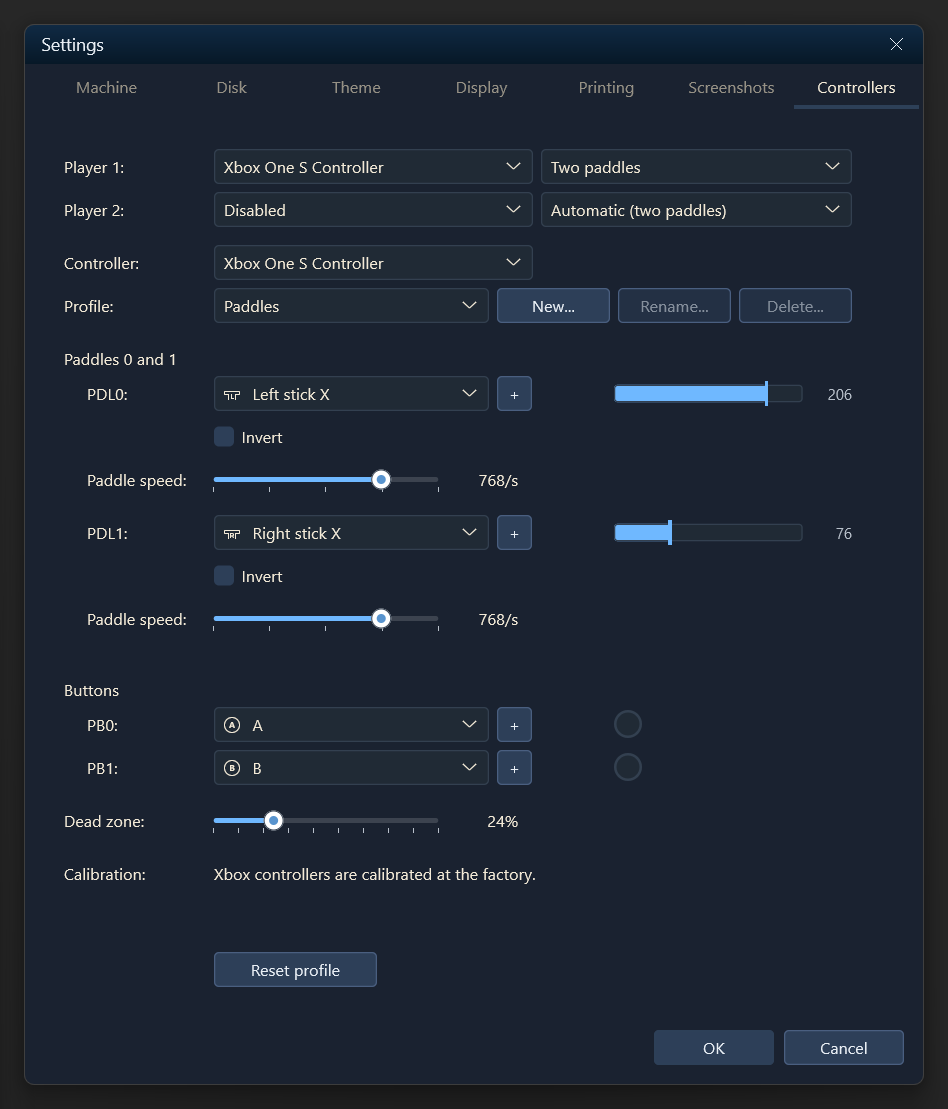
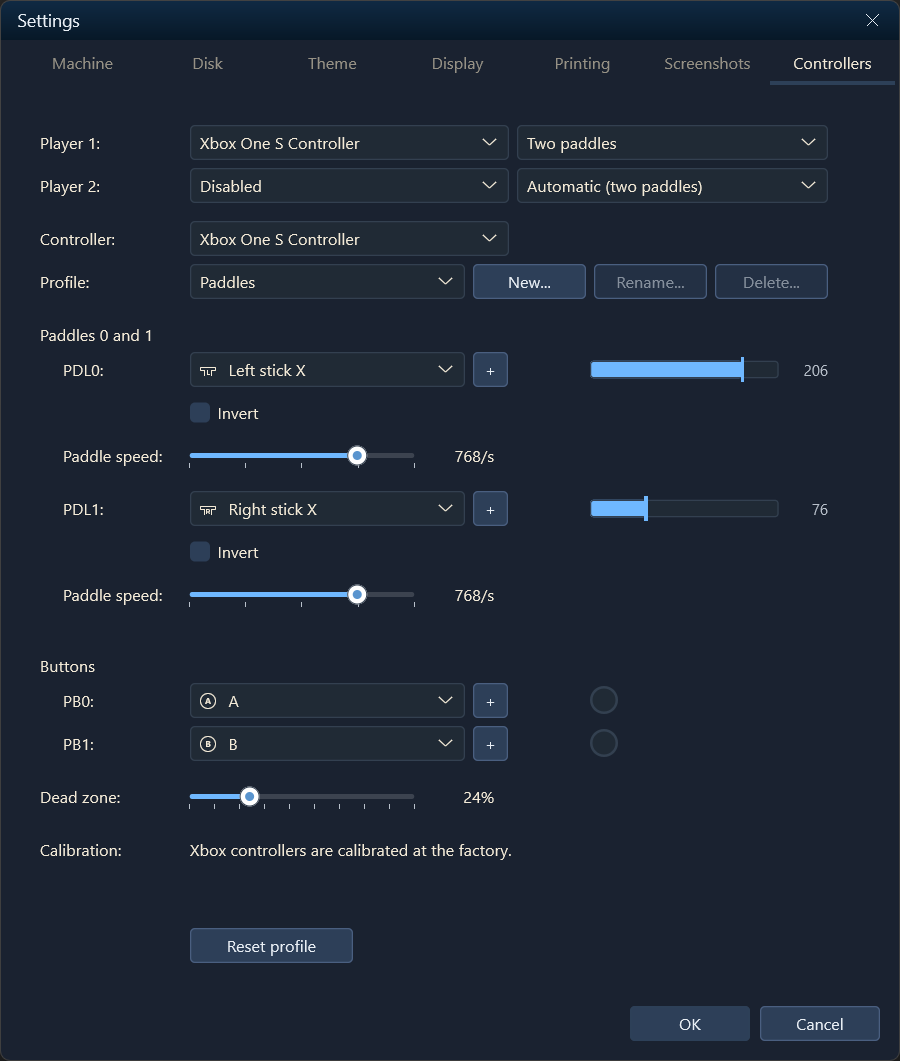
docs(readme): Crop the 1.29 screenshots and lay them out in two rows
The captures had a gray margin around each window, now cropped off. The
Joyport and toolbar shots sit side by side in a second row, with widths
in proportion to their shapes so the two come out the same height.

Refs #156

diff --git a/README.md b/README.md
@@ -104,9 +104,12 @@ surprise or two there too.
 </tr>
 </table>
 
-<p align="center"><img src="Assets/controllers-1-29-joyport.png" alt="The Controllers page in Settings with the Sirius Joyport: Player 1 on Automatic with the Xbox Series X|S controller on the left jack, and Player 2 on Automatic with the Xbox One S controller, which resolves to the right jack. The left stick, right stick and D-pad all drive left/right and up/down, a scrolling list of buttons and triggers fires, and a top-down drawing of an Atari joystick lights its right marker" width="540" /></p>
-
-<p align="center"><img src="Assets/controllers-1-29-profiles.png" alt="The toolbar's controller picker on the Apple //e desk scene with Lode Runner running: a submenu for each player, and Player 1's submenu open under three headings, Controller with Automatic, the Xbox Series X|S controller, the Xbox One S controller checked and keys as a joystick, Mode with Joystick checked above the two Joyport jacks, Paddle and Two paddles, and Profile with Default checked and New... at the bottom" width="700" /></p>
+<table align="center" width="100%">
+<tr>
+  <td valign="top" width="41%" align="center"><img src="Assets/controllers-1-29-joyport.png" alt="The Controllers page in Settings with the Sirius Joyport: Player 1 on Automatic with the Xbox Series X|S controller on the left jack, and Player 2 on Automatic with the Xbox One S controller, which resolves to the right jack. The left stick, right stick and D-pad all drive left/right and up/down, a scrolling list of buttons and triggers fires, and a top-down drawing of an Atari joystick lights its right marker" width="100%" /><br /><sub>Two players on the Joyport</sub></td>
+  <td valign="top" width="59%" align="center"><img src="Assets/controllers-1-29-profiles.png" alt="The toolbar's controller picker on the Apple //e desk scene with Lode Runner running: a submenu for each player, and Player 1's submenu open under three headings, Controller with Automatic, the Xbox Series X|S controller, the Xbox One S controller checked and keys as a joystick, Mode with Joystick checked above the two Joyport jacks, Paddle and Two paddles, and Profile with Default checked and New... at the bottom" width="100%" /><br /><sub>Controller, mode and profile on the toolbar</sub></td>
+</tr>
+</table>
 
 <a id="v1-26"></a>
 ### [2026-09-19 · 1.26] A real installer
